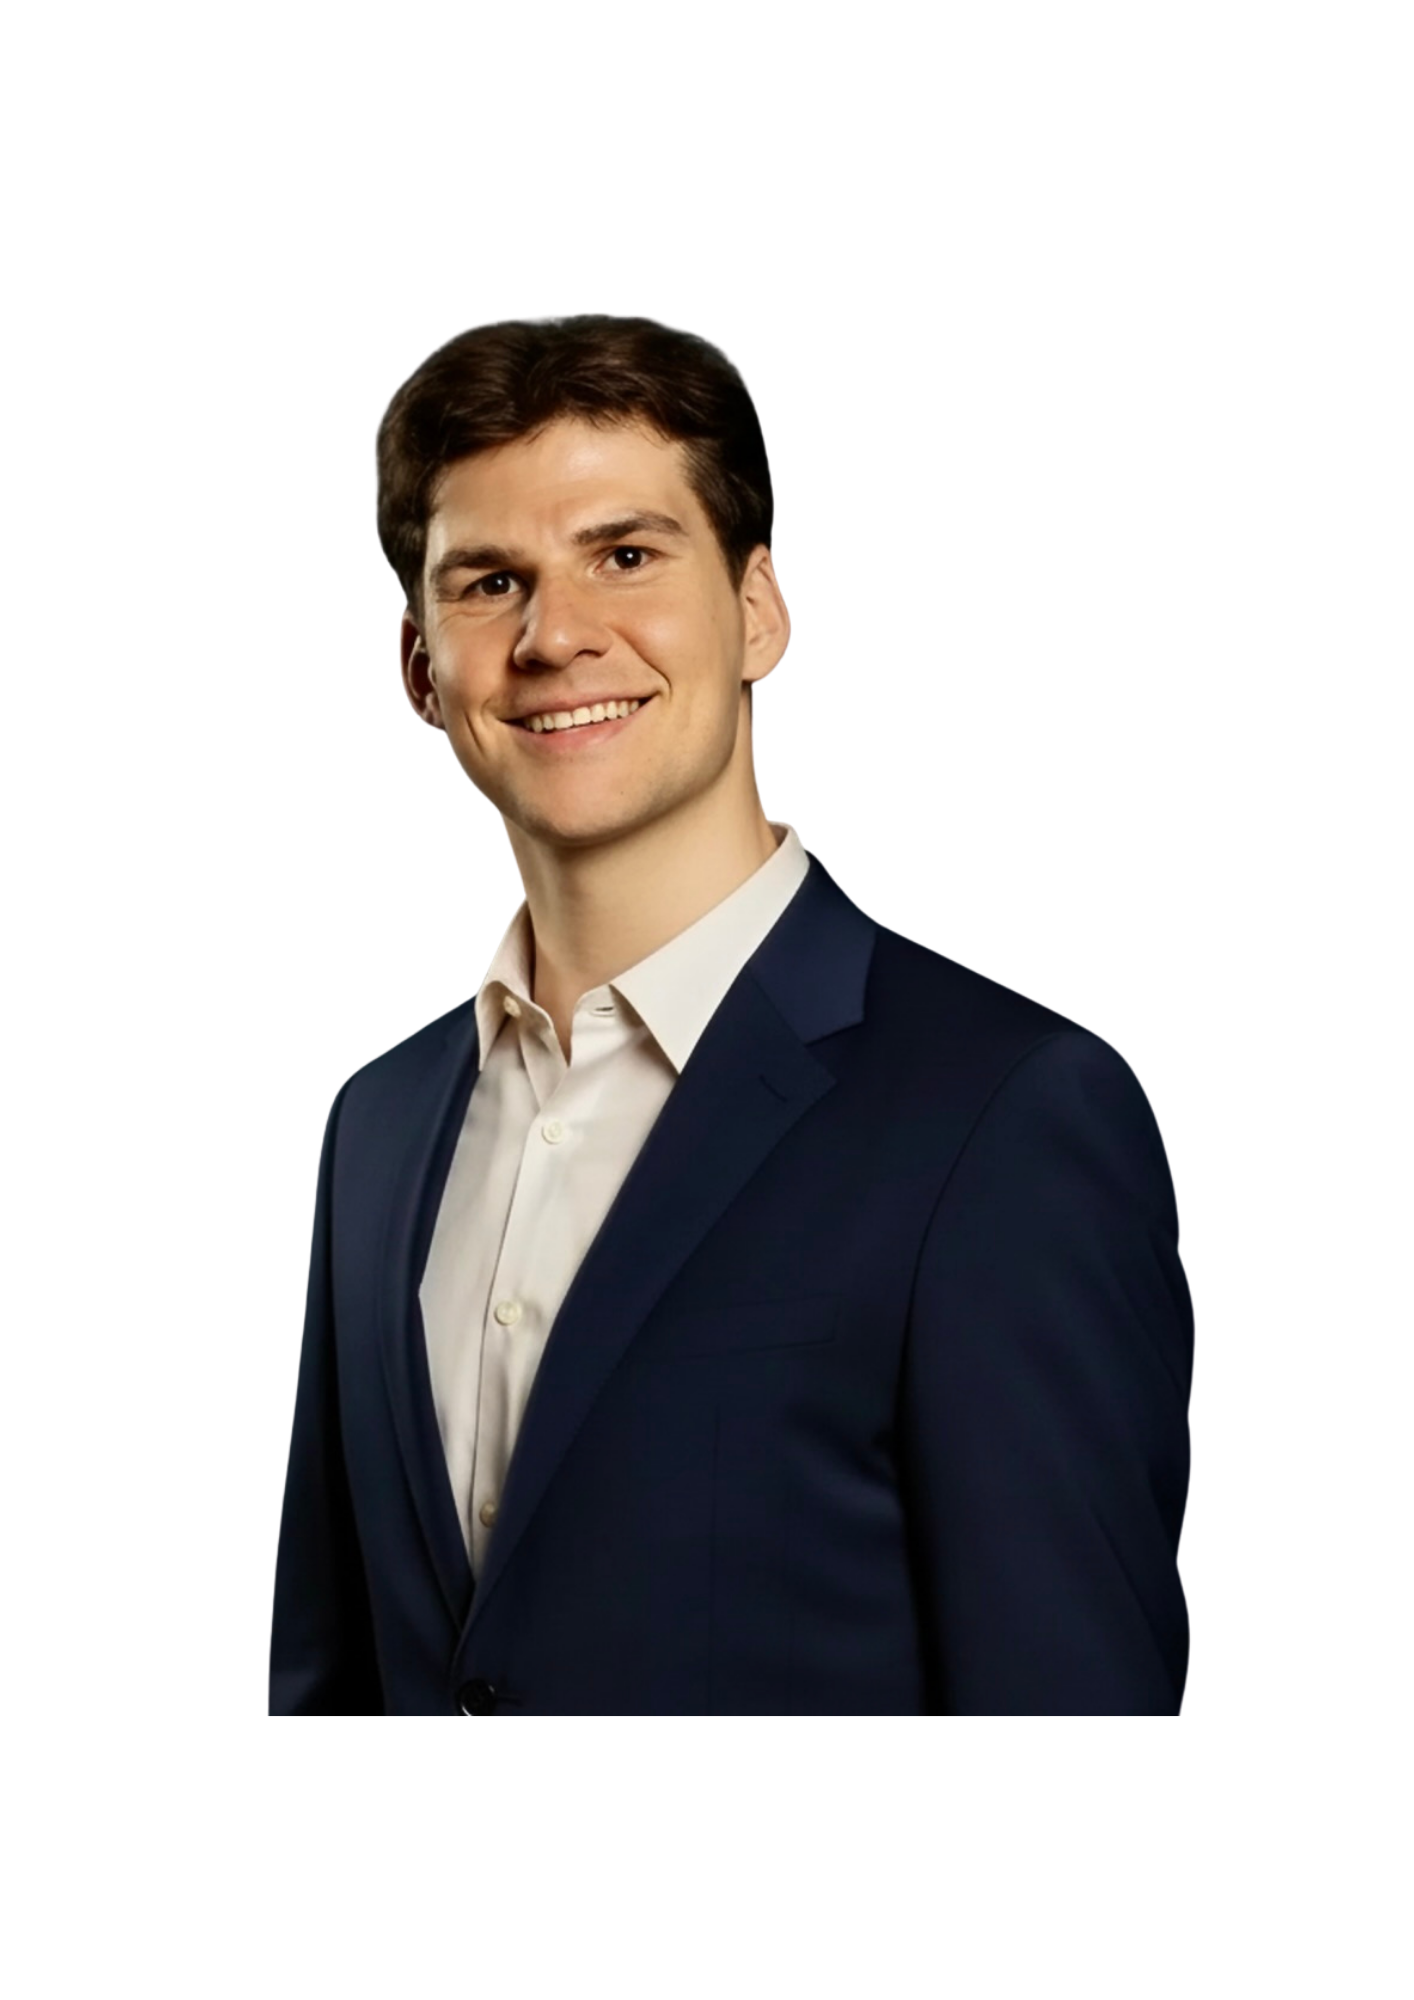
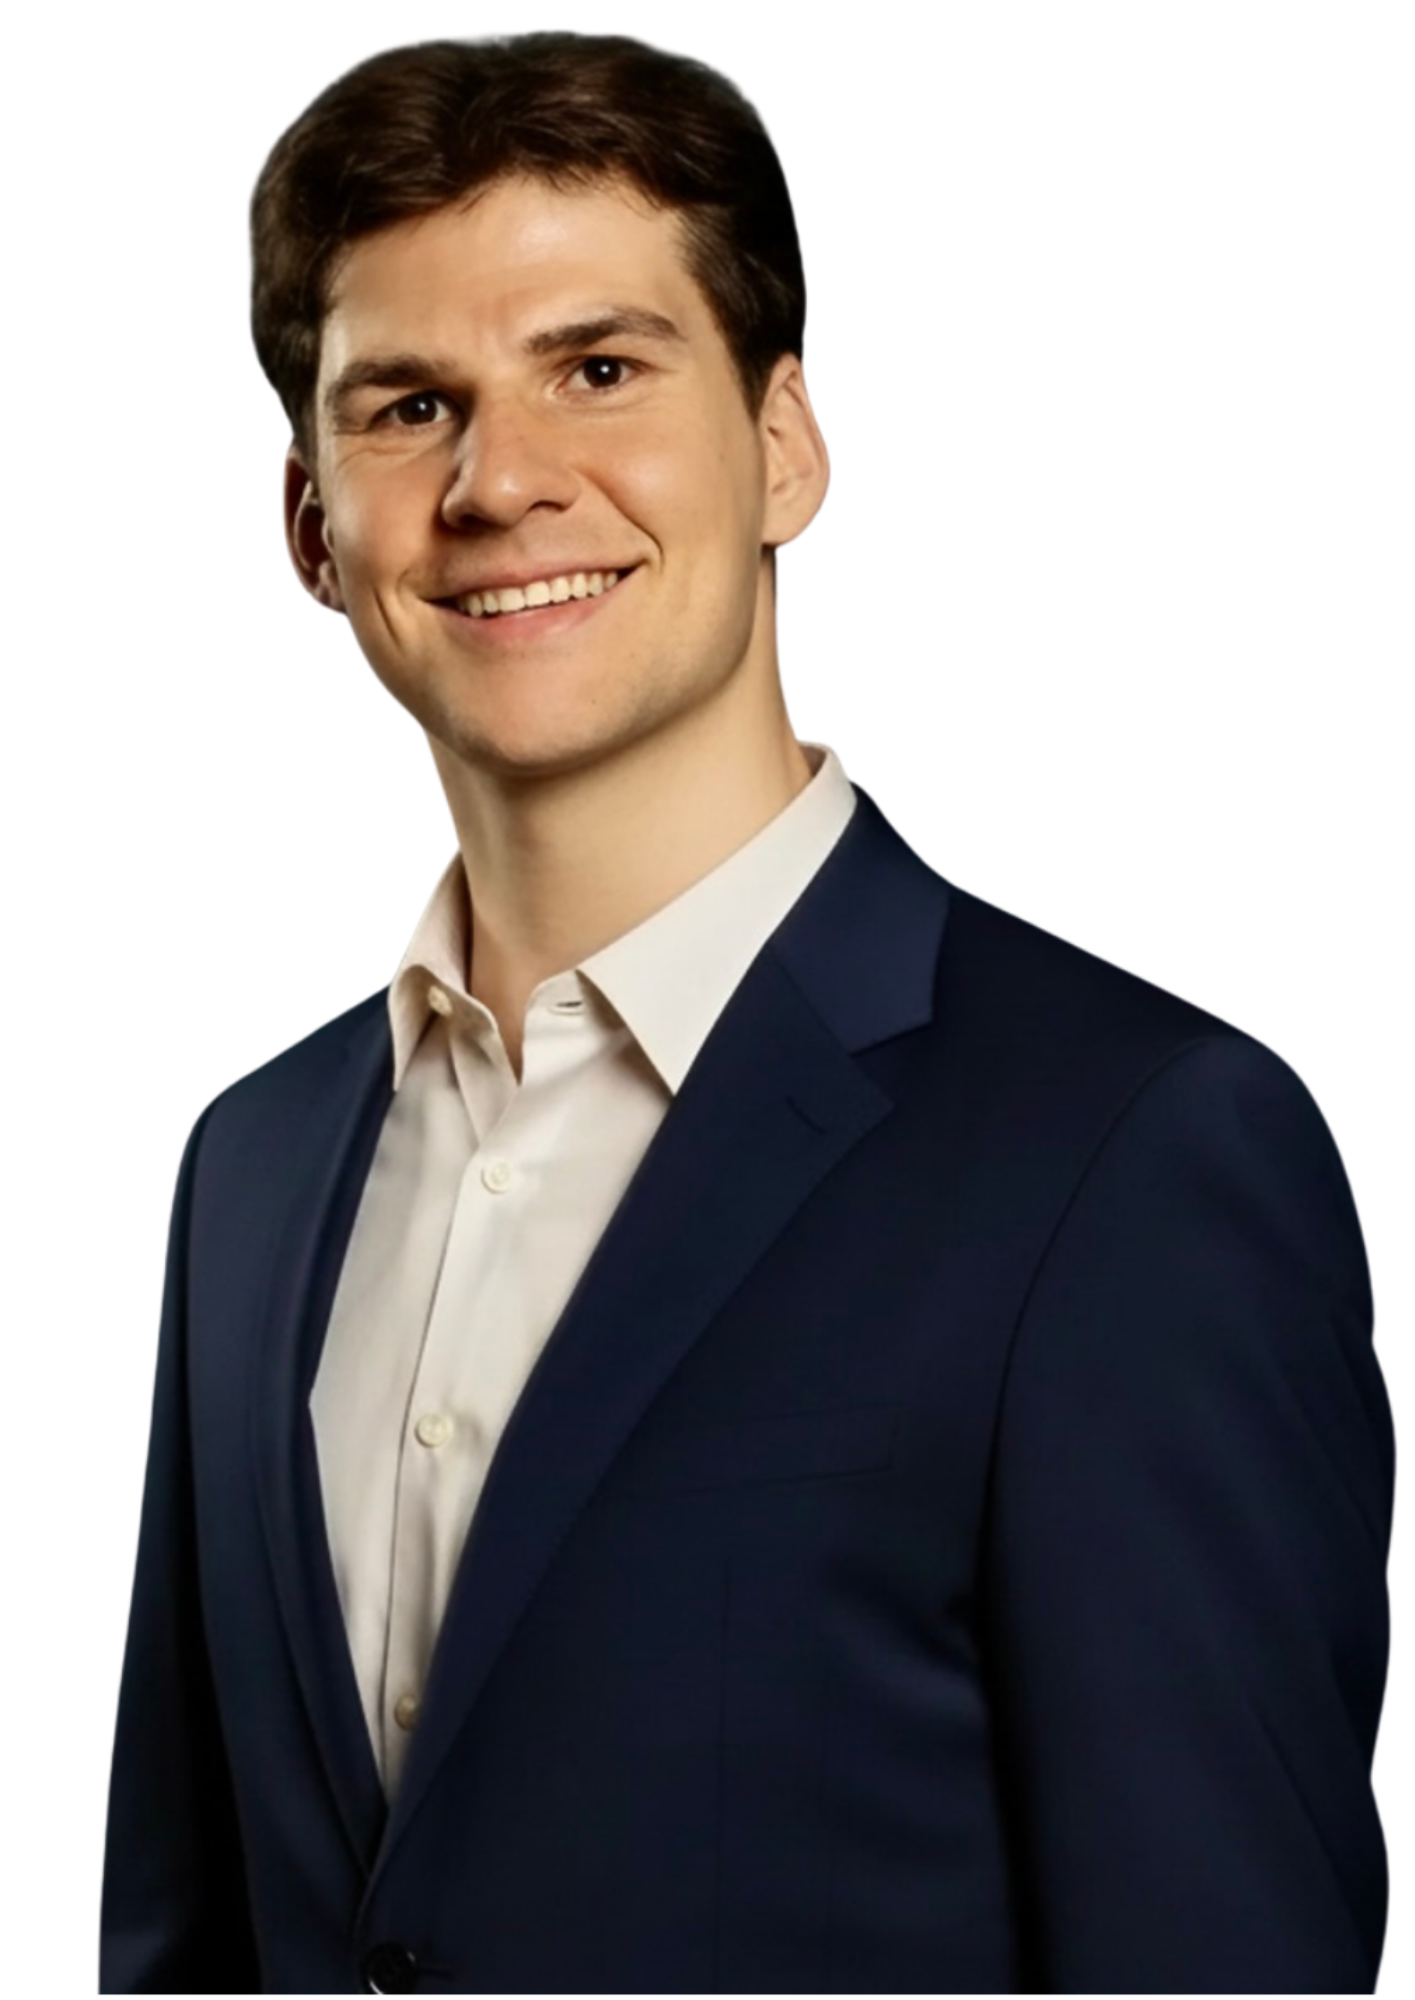
Rebalance about portrait

diff --git a/src/index.css b/src/index.css
@@ -846,21 +846,22 @@ button {
 
 .about-hero {
   display: grid;
-  grid-template-columns: minmax(0, 1.35fr) minmax(220px, 280px);
-  gap: clamp(1.1rem, 2.4vw, 2.2rem);
+  grid-template-columns: minmax(0, 1fr) minmax(320px, 420px);
+  gap: clamp(1.35rem, 3vw, 2.65rem);
   align-items: center;
-  padding: 1.35rem 1.45rem;
-  margin-bottom: 0.95rem;
+  padding: clamp(1.25rem, 2vw, 1.7rem);
+  margin-bottom: 1rem;
+  overflow: hidden;
 }
 
 .about-hero .page-title {
-  font-size: clamp(2.18rem, 3.08vw, 3.2rem);
-  margin-top: 0.65rem;
+  font-size: clamp(2.35rem, 3.4vw, 3.45rem);
+  margin-top: 0.72rem;
 }
 
 .about-hero .page-lead {
-  max-width: 49rem;
-  margin-top: 0.72rem;
+  max-width: 51rem;
+  margin-top: 0.82rem;
 }
 
 .about-copy {
@@ -870,6 +871,8 @@ button {
 .about-portrait-shell {
   display: flex;
   align-items: center;
+  justify-self: end;
+  width: 100%;
 }
 
 .about-portrait-panel {
@@ -878,19 +881,19 @@ button {
   align-items: flex-end;
   justify-content: center;
   width: 100%;
-  height: clamp(18.5rem, 24vw, 23.5rem);
+  height: clamp(25rem, 38vw, 33.5rem);
   min-height: 0;
-  padding: 0.65rem 0.55rem 0;
+  padding: 1rem 0.85rem 0;
   overflow: hidden;
   border-radius: calc(var(--radius-xl) + 2px);
   background:
-    radial-gradient(circle at 50% 18%, rgba(125, 184, 255, 0.18), transparent 0 42%),
-    radial-gradient(circle at 78% 82%, rgba(94, 92, 230, 0.16), transparent 0 38%),
-    linear-gradient(180deg, rgba(18, 22, 31, 0.82), rgba(7, 9, 14, 0.94));
+    radial-gradient(ellipse at 46% 16%, rgba(156, 205, 255, 0.22), transparent 0 42%),
+    radial-gradient(ellipse at 80% 84%, rgba(94, 92, 230, 0.2), transparent 0 42%),
+    linear-gradient(180deg, rgba(22, 27, 38, 0.9), rgba(7, 9, 14, 0.96));
   border: 1px solid rgba(255, 255, 255, 0.1);
   box-shadow:
     inset 0 1px 0 rgba(255, 255, 255, 0.08),
-    0 32px 80px rgba(0, 0, 0, 0.28);
+    0 34px 92px rgba(0, 0, 0, 0.32);
 }
 
 .about-portrait-glow {
@@ -907,11 +910,13 @@ button {
   position: relative;
   z-index: 1;
   display: block;
-  width: min(160%, 440px);
+  width: auto;
+  height: 108%;
   max-width: none;
-  max-height: 540px;
+  max-height: none;
   object-fit: contain;
-  filter: drop-shadow(0 18px 46px rgba(0, 0, 0, 0.28));
+  transform: translate(2.5%, 4.5%);
+  filter: drop-shadow(0 20px 50px rgba(0, 0, 0, 0.34));
 }
 
 .compact-grid {
@@ -2253,7 +2258,9 @@ button {
   }
 
   .about-portrait-shell {
-    max-width: 320px;
+    justify-self: center;
+    width: min(100%, 30rem);
+    max-width: none;
   }
 }
 
@@ -2378,7 +2385,7 @@ button {
   }
 
   .about-hero .page-title {
-    font-size: 2.7rem;
+    font-size: 2.62rem;
   }
 
   .page-lead {
@@ -2454,15 +2461,15 @@ button {
   }
 
   .about-portrait-panel {
-    height: 18.5rem;
+    height: 24.75rem;
     min-height: 0;
-    padding: 0.82rem 0.9rem 0;
+    padding: 0.95rem 0.9rem 0;
     border-radius: 1.55rem;
   }
 
   .about-portrait-image {
-    width: min(132%, 360px);
-    max-height: 410px;
+    height: 108%;
+    transform: translate(2%, 4.5%);
   }
 
   .resume-mobile-section-header,
@@ -2510,6 +2517,10 @@ button {
 
   .page-shell-home .nav-shell-home-scrolled {
     padding: 0.62rem 0.72rem;
+  }
+
+  .about-portrait-panel {
+    height: 22.75rem;
   }
 
   .nav-actions {
@@ -2668,16 +2679,16 @@ button {
   }
 
   .about-hero {
-    gap: 0.75rem;
+    gap: 0.95rem;
   }
 
   .about-hero .page-title {
-    font-size: 2.05rem;
-    margin-top: 0.62rem;
+    font-size: 2.08rem;
+    margin-top: 0.65rem;
   }
 
   .about-hero .page-lead {
-    margin-top: 0.62rem;
+    margin-top: 0.65rem;
   }
 
   .about-portrait-shell {
@@ -2685,13 +2696,12 @@ button {
   }
 
   .about-portrait-panel {
-    height: 15.75rem;
+    height: 24rem;
     min-height: 0;
   }
 
   .about-portrait-image {
-    width: min(130%, 330px);
-    max-height: 380px;
+    height: 108%;
   }
 
   .compact-grid,
@@ -2792,13 +2802,14 @@ button {
   }
 
   .about-portrait-panel {
-    height: 14.35rem;
+    height: 20.5rem;
     min-height: 0;
+    padding: 0.75rem 0.65rem 0;
   }
 
   .about-portrait-image {
-    width: min(132%, 290px);
-    max-height: 340px;
+    height: 110%;
+    transform: translate(1.5%, 5%);
   }
 
   .resume-logo-card {
